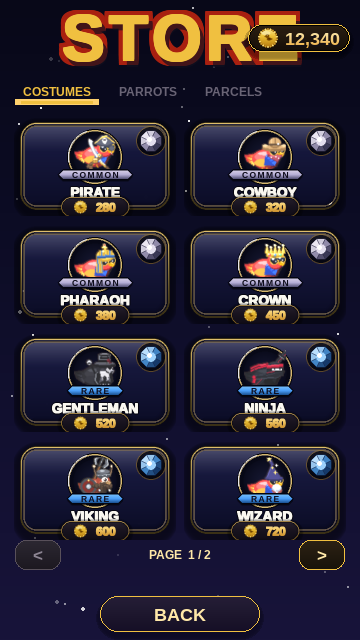
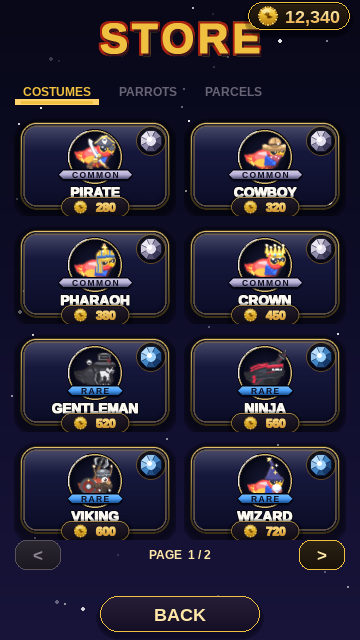
tweak: move balance capsule above STORE wordmark (y=38 → y=16)

Changed region(s): [[0.1528, 0.0, 0.9778, 0.125]]

diff --git a/game/store.py b/game/store.py
@@ -550,7 +550,7 @@ class StoreScene:
     def _render_category(self, surf: pygame.Surface) -> None:
         self._draw_bg(surf)
         self._draw_title(surf)
-        self._draw_balance(surf, y=38)
+        self._draw_balance(surf, y=16)
         self._draw_tabs(surf)
 
         base_x = (W - (_CARD_W * 2 + _GAP)) // 2
